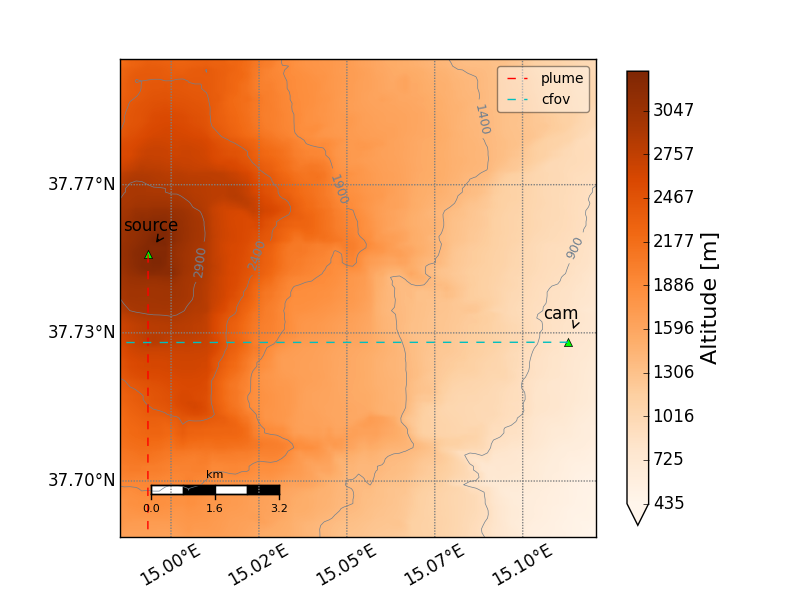
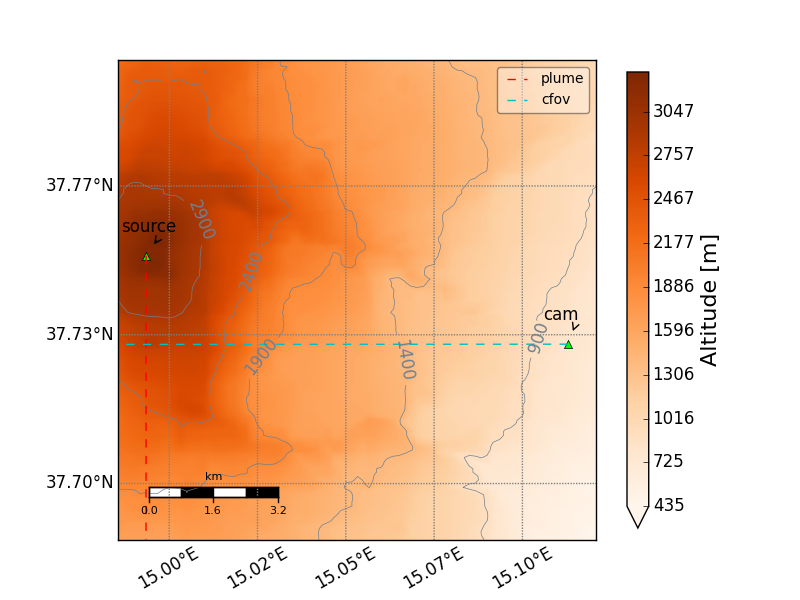
Removed latex formatting in clabel call of contour plot (mapping.py), added example 5 to docs

diff --git a/geonum/mapping.py b/geonum/mapping.py
@@ -181,7 +181,6 @@ class Map(Basemap):
                     x = pyrDown(x)
                     y = pyrDown(y)
                     z = pyrDown(z)            
-        print z_min, z_max
         return (x, y, z, z_min, z_max, z_order)
             
     def draw_topo_contour(self, include_seabed = 1, separation_levels = 500):
@@ -207,12 +206,14 @@ class Map(Basemap):
                             colors = self.default_colors["contour_lines"])
         CS1.levels = [self._convert_float(val) for val in CS1.levels]
         
-        fmt = '%r m'
-        if rcParams["text.usetex"]:
-             fmt = r'%r m'
+#==============================================================================
+#         fmt = '%r m'
+#         if rcParams["text.usetex"]:
+#              fmt = r'%r m'
+#==============================================================================
              
-        self.ax.clabel(CS1, CS1.levels, inline = True, fmt = fmt,\
-                                                        fontsize = 9)
+        self.ax.clabel(CS1, CS1.levels, inline = True)#, fmt = fmt,\
+                                                       # fontsize = 9)
         self.contour_lines = CS1   
             
     def _convert_float(self, val):

diff --git a/scripts/ex5_topodata.py b/scripts/ex5_topodata.py
@@ -4,6 +4,10 @@ Elevation profiles and directional topographic analysis
 """
 import geonum
 from matplotlib.pyplot import show
+from os.path import join
+from os import getcwd
+### Set save directory for figures
+save_path = join(getcwd(), "scripts_out")
 
 def load_topo_oslo():
     dat = geonum.topodata.TopoDataAccess()
@@ -16,5 +20,10 @@ if __name__ == "__main__":
     basemap = topo_data.plot_2d()
     basemap.ax.set_title("SRTM topo data Oslo")
     basemap.draw_mapscale_auto()
+    
+    my_flat = geonum.base.GeoPoint(59.919386, 10.714970, name =\
+                                            "the author lives here")
+    my_flat.plot_2d(basemap, add_name=True)
+    basemap.ax.figure.savefig(join(save_path, "ex5_out_1_oslo_map.png"))
     show()
     

diff --git a/geonum/base.py b/geonum/base.py
@@ -345,7 +345,6 @@ class GeoPoint(object, LatLon):
                 fs = 12
             #zt=self.altitude*1000. + dz_text
             zt = self.altitude + dz_text
-            print "Draw text "+ self.name + " at:"
             map.draw_text_3d(self.longitude, self.latitude, zt, self.name,\
                                                     color="k", fontsize = fs)
             
@@ -661,8 +660,6 @@ class GeoVector3D(object, GeoVector):
             #. ``self.anchor`` must be set with a :class:`Geopoint` instance
             
         """
-        print self.name
-        print self.type()
         map.draw_geo_vector_3d(self, **kwargs)
         if add_anchor:
             self.anchor.plot(map, add_name = True, dz_text = self.dz * .1)

diff --git a/geonum/topodata.py b/geonum/topodata.py
@@ -756,7 +756,6 @@ def delete_all_local_srtm_files():
 #==============================================================================
 if __name__ == "__main__":
     import matplotlib.pyplot as plt
-    print "Bla"
     topopath = r'D:/Dropbox/Python27/jgliss/modules_priv/pygeomapping/topodata/'
     
     etopo_cell = "ETOPO1_Ice_c_gmt4.grd"

diff --git a/docs/examples.rst b/docs/examples.rst
@@ -67,3 +67,17 @@ Example 4 - Elevation profiles and topographic analysis
   :title:
   
   Example 4, Fig. 2: Result from horizon search routine for profile shown in Fig. 1
+  
+Example 5 - Topography data access
+----------------------------------
+
+**Code** 
+
+.. literalinclude:: ../scripts/ex5_topodata.py
+
+**Output figures**
+
+.. thumbnail::  ../scripts/scripts_out/ex5_out_1_oslo_map.png
+  :title:
+  
+  Example 5, Fig. 1: Overview map of Oslo area, Norway (SRTM dataset has some gaps here)
